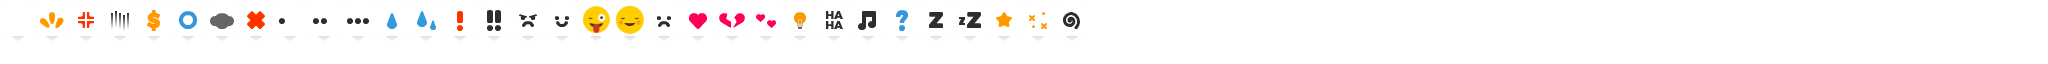
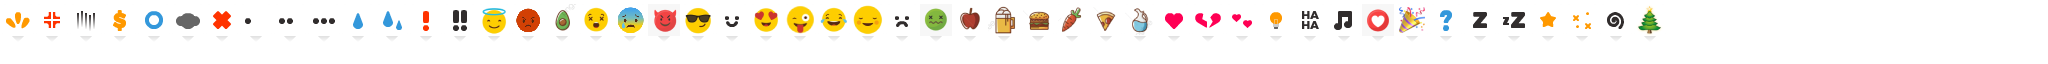
added buddy celebration animation + more emojis

Changed region(s): [[0.0, 0.0938, 0.8125, 0.5312], [0.5312, 0.5625, 0.8125, 0.5938], [0.7812, 0.125, 0.8125, 0.1562]]

diff --git a/app/javascript/controllers/game/buddy.js b/app/javascript/controllers/game/buddy.js
@@ -5,10 +5,16 @@ import {
   workBehavior,
   idleBehavior,
   feedBehavior,
+  celebrateBehavior,
 } from "./behaviors";
 import { Vector2, Vector3 } from "./math";
 import { SignalDispatcher } from "./signal";
-import { secondToTick } from "./utils";
+import {
+  AnimationSequence,
+  InterpolationKind,
+  secondToTick,
+  Tween,
+} from "./utils";
 import {
   BehaviorTree,
   BehaviorResult,
@@ -27,6 +33,8 @@ export class Buddy extends Container {
   rate = secondToTick(3);
   agent = new BehaviorTree();
   offset = new Vector2(62, 180);
+  originPosition = new Vector2();
+  animationOffset = new Vector2();
   needs = new NeedController();
   moodDisplay = new MoodDisplay(new Vector2(16, -38));
 
@@ -48,6 +56,13 @@ export class Buddy extends Container {
     this.currentCoord = new Vector3(3, 0, 3);
     this.grid.addBuddy(this, this.currentCoord);
 
+    this.animation = new AnimationSequence(2);
+    this.animation.addAnimation(
+      new Tween(secondToTick(0.3), 0, 32, InterpolationKind.InOut)
+    );
+    this.animation.addAnimation(
+      new Tween(secondToTick(0.3), 32, 0, InterpolationKind.In)
+    );
     {
       const blackboard = {
         lock: "none",
@@ -80,6 +95,9 @@ export class Buddy extends Container {
         food: {
           atFoodSource: false,
         },
+        celebrate: {
+          shouldCelebrate: false,
+        },
       };
 
       this.agent.blackboard = blackboard;
@@ -92,6 +110,7 @@ export class Buddy extends Container {
       breakSubTree.addChild(idleBehavior(blackboard));
 
       const root = new BehaviorSequence(blackboard, BehaviorResult.Success);
+      root.addChild(celebrateBehavior(blackboard));
       root.addChild(expressMoodBehavior(blackboard));
       root.addChild(workBehavior(blackboard));
       root.addChild(breakSubTree);
@@ -104,11 +123,24 @@ export class Buddy extends Container {
       this.agent.run();
       this.needs.update();
       this.moodDisplay.update();
+
+      if (this.animation.playing) {
+        const [offset, done] = this.animation.advance();
+
+        this.animationOffset.y = offset;
+        this.x = this.originPosition.x - this.animationOffset.x;
+        this.y = this.originPosition.y - this.animationOffset.y;
+      }
     };
     app.ticker.add(update);
   }
 
   setSignalListeners() {
+    SignalDispatcher.addListener("interrupt.celebrate", () => {
+      this.agent.blackboard.celebrate.shouldCelebrate = true;
+      this.animation.play();
+      this.agent.interrupt();
+    });
     SignalDispatcher.addListener("interrupt.work", () => {
       this.agent.blackboard.work.hasWork = true;
       this.agent.interrupt();
@@ -120,8 +152,10 @@ export class Buddy extends Container {
   }
 
   setPosition(pos) {
-    this.x = pos.x - this.offset.x;
-    this.y = pos.y - this.offset.y;
+    this.originPosition.x = pos.x - this.offset.x;
+    this.originPosition.y = pos.y - this.offset.y;
+    this.x = pos.x - this.offset.x - this.animationOffset.x;
+    this.y = pos.y - this.offset.y - this.animationOffset.y;
   }
 
   lookAt(dir) {

diff --git a/app/javascript/controllers/game/utils.js b/app/javascript/controllers/game/utils.js
@@ -13,6 +13,7 @@ export const secondToTick = (sec) => {
 export const InterpolationKind = {
   Linear: 0,
   InOut: 1,
+  In: 2,
 };
 
 export class Tween {
@@ -46,6 +47,8 @@ export class Tween {
         const v2 = 1 - (1 - t) * (1 - t);
         t = this.lerp(v1, v2, t);
         break;
+      case InterpolationKind.In:
+        t = t * t;
     }
 
     result = this.lerp(this.min, this.max, t);
@@ -58,5 +61,66 @@ export class Tween {
 
   lerp(v1, v2, t) {
     return v1 * (1 - t) + v2 * t;
+  }
+}
+
+export class AnimationSequence {
+  animations = [];
+  current;
+  currentIndex = 0;
+  playing = false;
+  repeat = 1;
+  currentIteration = 0;
+
+  constructor(repeat = 1) {
+    this.repeat = repeat;
+  }
+
+  play() {
+    this.playing = true;
+    this.currentIndex = 0;
+    this.currentIteration = 0;
+    this.animations.forEach((animation) => {
+      animation.reset();
+    });
+    this.current = this.animations[0];
+  }
+
+  resetIteration() {
+    this.playing = true;
+    this.currentIndex = 0;
+    this.animations.forEach((animation) => {
+      animation.reset();
+    });
+    this.current = this.animations[0];
+  }
+
+  advance() {
+    if (this.animations.length == 0) {
+      return [0, false];
+    }
+
+    let [result, done] = this.current.tween();
+    if (done) {
+      this.currentIndex += 1;
+      if (this.currentIndex >= this.animations.length) {
+        this.currentIteration += 1;
+        if (this.currentIteration >= this.repeat) {
+          this.playing = false;
+          return [this.animations[0].min, true];
+        } else {
+          this.resetIteration();
+          return this.advance();
+        }
+      } else {
+        this.current = this.animations[this.currentIndex];
+        return this.advance();
+      }
+    }
+    return [result, done];
+  }
+
+  addAnimation(animation) {
+    this.animations.push(animation);
   }
 }

diff --git a/app/javascript/controllers/game/behaviors.js b/app/javascript/controllers/game/behaviors.js
@@ -127,6 +127,31 @@ export class BehaviorAction {
 
 // All the premade Behaviors
 
+export const celebrateBehavior = (blackboard) => {
+  const behavior = new BehaviorSequence(blackboard);
+  behavior.addChild(
+    new BehaviorCondition(blackboard, (b) => {
+      return b.celebrate.shouldCelebrate;
+    })
+  );
+  behavior.addChild(
+    new BehaviorAction(blackboard, (b) => {
+      if (!b.agentData.moodDisplay.playing) {
+        b.agentData.moodDisplay.play("celebrate");
+      }
+      return !b.agentData.animation.playing;
+    })
+  );
+  behavior.addChild(
+    new BehaviorAction(blackboard, (b) => {
+      b.celebrate.shouldCelebrate = false;
+      return true;
+    })
+  );
+
+  return behavior;
+};
+
 export const expressMoodBehavior = (blackboard) => {
   const happyMoods = ["happy", "sing", "daydream"];
   const behavior = new BehaviorSequence(blackboard);

diff --git a/app/javascript/controllers/game/needs.js b/app/javascript/controllers/game/needs.js
@@ -68,7 +68,7 @@ export class NeedController {
         .withMoodWeight(1),
     };
 
-    this.needs.hunger.set(20);
+    // this.needs.hunger.set(20);
   }
 
   update() {
@@ -125,6 +125,7 @@ export class MoodDisplay extends Container {
     rest: ["cloud", "bars", "faceAngry", "sleep", "sleeps"],
     recreation: ["cloud", "bars", "faceSad"],
     happy: ["faceHappy", "laugh", "star"],
+    celebrate: ["party"],
     sing: ["music"],
     daydream: ["faceHappy", "laugh", "star"],
     eat: ["faceRelieved"],

diff --git a/app/javascript/controllers/update_timer_controller.js b/app/javascript/controllers/update_timer_controller.js
@@ -148,6 +148,7 @@ export default class extends Controller {
           "Your last timer has been logged!<br>You can create a new one.";
       });
     SignalDispatcher.dispatchSignal("interrupt.break");
+    SignalDispatcher.dispatchSignal("interrupt.celebrate");
   }
 
   timerUrl(url) {
